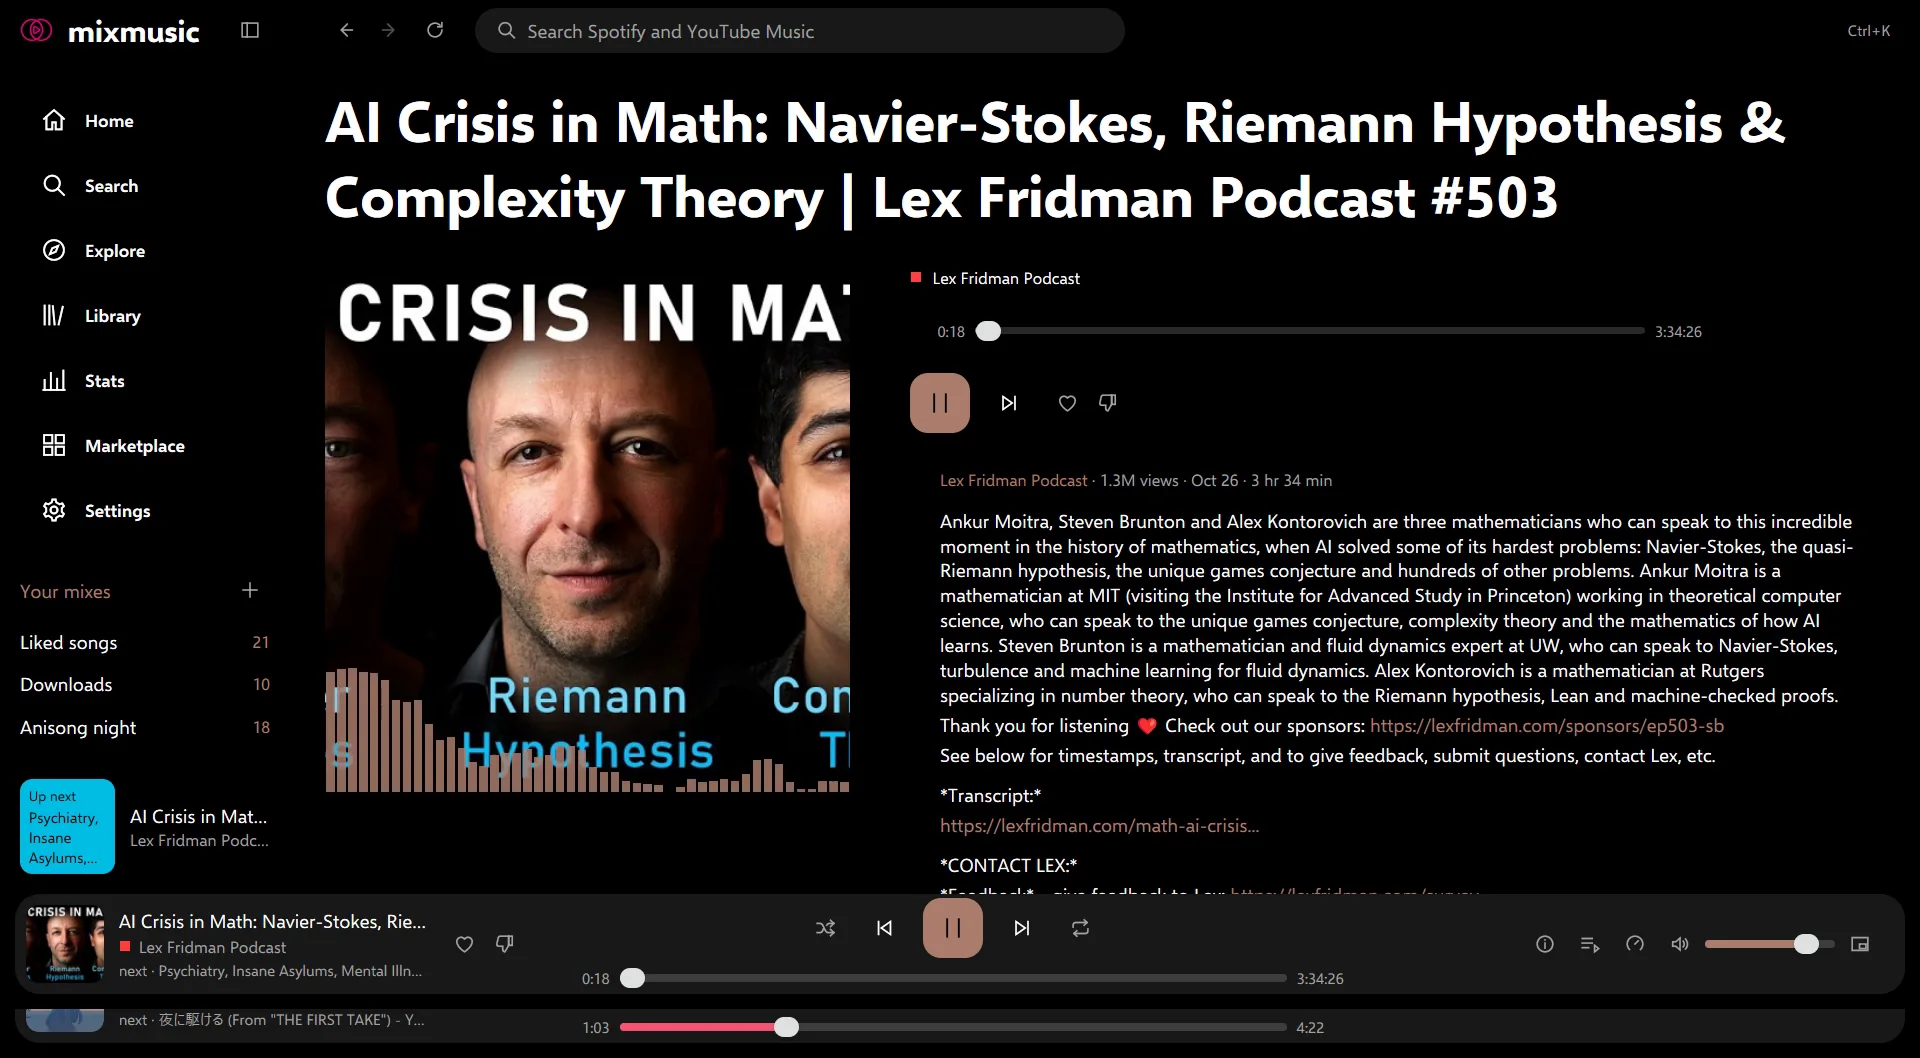
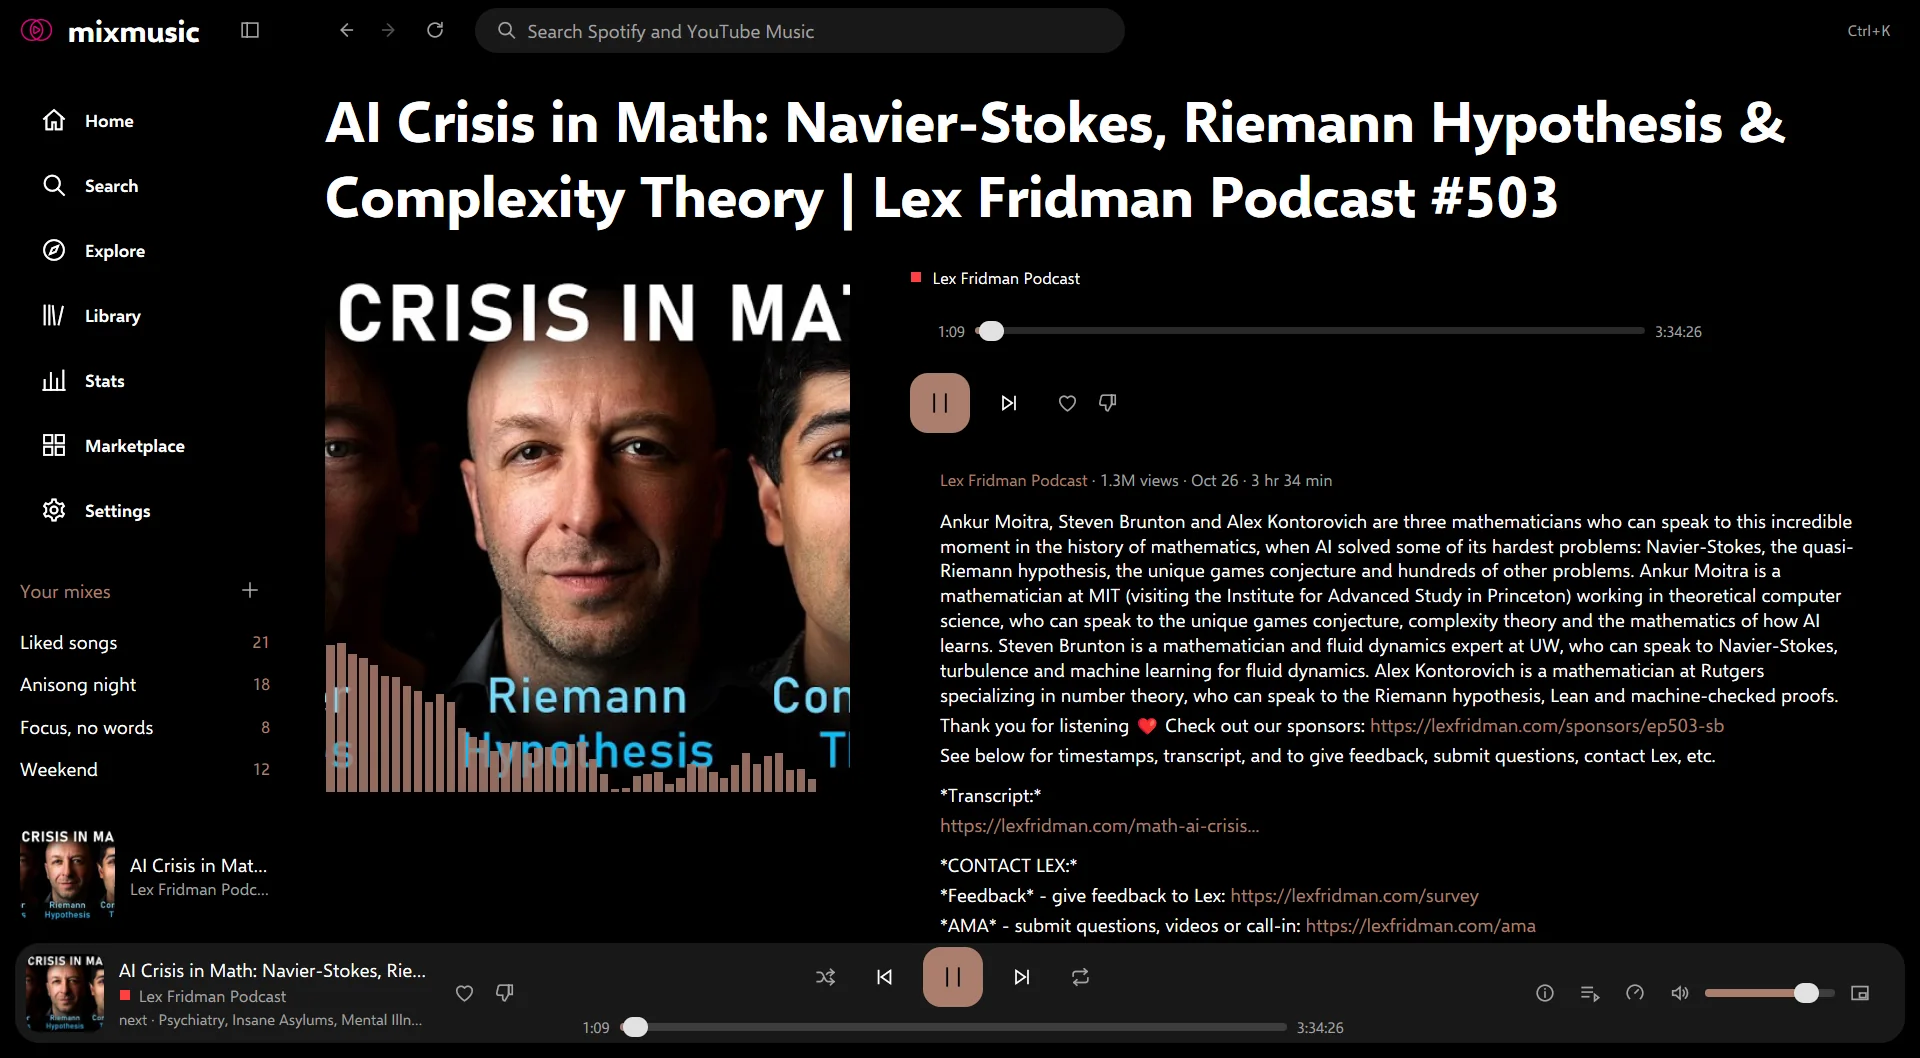
docs: shots of About, the sign-ins, the tray menu and the theme settings, and the episode retaken (#315)
* docs: Podcasts shows an episode's details, in a retake with one player bar

* docs: Settings and Troubleshooting show Settings › About

* docs: Accounts shows YouTube Music's three ways to sign in, and Last.fm's

* docs: On the desktop shows the tray icon's menu

* docs: Look and feel shows the theme cards, Aurora's options and colours from a pywal file

diff --git a/docs/look-and-feel.md b/docs/look-and-feel.md
@@ -47,6 +47,8 @@ has an outline in the accent. The
 (<kbd>Ctrl</kbd> <kbd>K</kbd>, <kbd>⌘</kbd> <kbd>K</kbd> on macOS) lists
 every theme too, as "Theme: Aurora" and so on.
 
+![Settings › Appearance › Theme: Get more themes and Open themes folder beside its title, the Follow the computer switch, off, then a card for each of the fourteen built-in themes, from Anime to Walnut Light, each drawn in its own colours with its four tile colours and "built in", Mix outlined as the one worn](shots/theme-cards.webp)
+
 The title bar of the window is light or dark as the theme is.
 
 ### The built-in themes
@@ -74,6 +76,8 @@ A built-in theme with options shows them in a group under the theme cards,
 named after it, as **Aurora options**: switches for its effects, sliders
 for its blur or glow, and Aurora's colour of light. Each theme keeps its
 own options.
+
+![MixMusic wearing Aurora, its northern lights behind the settings: the last rows of theme cards, then the Aurora options group, with the Drifting lights switch on, the Glass blur slider at 22px and the Light color swatch, violet](shots/theme-options.webp)
 
 While your system asks for less motion, Aurora's lights, Anime's speed
 lines and Mochi's sparkles hold still (see
@@ -137,6 +141,8 @@ nothing to reload. In Settings › Appearance › Colour and type, set
   light or dark, title bar included.
 - While Follow the artwork is on, the cover still sets the accent. Turn it
   off to keep the file's.
+
+![Settings › Appearance › Colour and type with Colours from a file set to pywal: the window in the file's dark blue ground with an orange accent, the Colour file row, its path covered here, "Read at 01:14, and followed as it changes." and How to set it up, then Follow the artwork, off, and an orange Accent colour](shots/colours-file.webp)
 
 [Themes: Colours from a file](themes.md#colours-from-a-file) has the
 setup for pywal and matugen, the files MixMusic reads, and how each colour

diff --git a/docs/accounts.md b/docs/accounts.md
@@ -18,6 +18,8 @@ Settings › Accounts › YouTube Music offers three ways to sign in. The
 first is the simplest; the other two are for when it can't open, or Google
 refuses it.
 
+![Settings › Accounts › YouTube Music, signed out: the sign in to youtube music button and a note on Google's own page, Import from a browser with Firefox chosen, Profile, "The browser's own", and the Import button, then Paste a cookie header, with its box and the sign in with it button](shots/accounts-youtube.webp)
+
 ### The sign-in window
 
 Choose **sign in to youtube music**. A window of MixMusic opens on Google's
@@ -171,6 +173,8 @@ Last.fm API account of your own:
 2. Paste its **API key** and **shared secret** in Settings › Accounts ›
    Last.fm, and choose **connect to last.fm**.
 3. Approve MixMusic on the page that opens in your browser.
+
+![Settings › Accounts › Last.fm, not connected: the three steps, with a link to Last.fm, the API key and Shared secret boxes, each "32 letters and digits", the connect to last.fm button, and a note that MixMusic keeps them in your system's credential store](shots/accounts-lastfm.webp)
 
 Settings › Accounts then says **Scrobbling as** your name, with a switch
 that pauses scrobbling and starts it again. A track counts once half of it

diff --git a/docs/settings.md b/docs/settings.md
@@ -92,6 +92,8 @@ themes and the plugins' commands. See
 | [Updates](how-it-works.md#mixmusic-itself) | **Check for updates**, at start and every few hours, and **Install updates without asking**, which downloads them in the background for the next launch. |
 | Licenses | The licenses of the code and the typefaces MixMusic includes, each with **show**: see [License](license.md) and [Credits](credits.md). |
 
+![Settings › About: the MixMusic group, with the version, MixMusic 0.5.9 · windows amd64 · portable, "This is the newest version" with Check again, where your data lives, its folder covered here, and the Source code, Contribute, Report a problem and Open logs folder buttons; then Updates, with Check for updates on and Install updates without asking off](shots/about.webp)
+
 Without Install updates without asking, a new version asks in a pop-up:
 **install** it, **later**, which asks again at the next start, or **skip
 this version**. The `.deb`, the `.rpm`, the AppImage and the Flatpak can't

diff --git a/docs/podcasts.md b/docs/podcasts.md
@@ -78,6 +78,8 @@ Where a song shows its lyrics, an episode shows its details: in the [side panel]
 - **Chapters:** lines that start or end with a time are chapters, and the chapter that plays lights up as the episode goes on. On a MacBook with a notch, the [notch player](desktop.md#the-player-around-the-notch) shows it, with the chapters before and after it.
 - **Where they come from:** YouTube Music's Details tab, or Spotify, asked for the first time they show, and kept: a refresh doesn't ask again.
 
+![Now playing an episode of the Lex Fridman Podcast, at 1:09 of 3:34:26: its cover with the visualizer on the left, and under the player its details: the show, 1.3M views, Oct 26 and 3 hr 34 min, then its description with its links](shots/episode.webp)
+
 ## Speed
 
 Podcasts have a speed of their own, apart from songs': Podcasts, in Settings › Playback › Speed, 1× at first. Episodes play at it, and songs at theirs.

diff --git a/docs/troubleshooting.md b/docs/troubleshooting.md
@@ -9,6 +9,8 @@ report a problem opens a new issue on GitHub with your version, system,
 tools, theme and plugins filled in; attach the log after reading it. After
 a crash, MixMusic offers to report it the next time it starts.
 
+![Settings › About: the version of MixMusic and whether it's the newest, with the Report a problem and Open logs folder buttons under it, and the Updates group below](shots/about.webp)
+
 ## Common problems
 
 - **A YouTube Music track doesn't play.** It says why: some are not

diff --git a/docs/desktop.md b/docs/desktop.md
@@ -80,6 +80,8 @@ and the item that quits MixMusic. On Windows and macOS, a click on the icon
 shows the main window and a right click opens the menu; on Linux, a click
 opens the menu.
 
+![The tray icon's menu on Windows: Play / Pause, Next and Previous, then Show MixMusic and Mini player, then Exit](shots/tray-menu.webp)
+
 ### Close to the tray
 
 With **Close to the tray** on, in Settings › Desktop, closing the main
